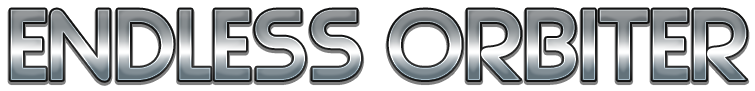
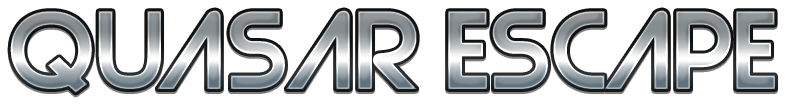
New Title

diff --git a/src/scenes/Menu.js b/src/scenes/Menu.js
@@ -55,7 +55,6 @@ class Menu extends Phaser.Scene{
         this.menuBackgroundStars = this.add.tileSprite(0, 0, game.config.width, game.config.height, "menuBGStars").setOrigin(0,0).setScrollFactor(0);
         this.bgPlanet = this.add.sprite(screenCenterX, screenCenterY, 'bgPlanet').setScale(1.4);
 
-
         //Create a particle emitter to shoot flames out of the mouse
         this.mouseFlameEmitter = this.add.particles('cursorParticles').createEmitter({
             x: -3000,
@@ -70,7 +69,8 @@ class Menu extends Phaser.Scene{
         });
 
         //Initialize Title
-        this.title = this.add.sprite(screenCenterX, screenCenterY - 420, 'title').setScale(200);
+        this.title = this.add.sprite(screenCenterX, screenCenterY - 425, 'title').setScale(200);
+        this.title.alpha = 0;
 
         //Initialize Particles and Emitter
         this.rocketParticles = this.add.particles('menuBGStars').setScale(1);
@@ -113,7 +113,7 @@ class Menu extends Phaser.Scene{
 
         //Will Launch the Menu up like a rocket
         if(this.launchMe == true){
-            this.launchMenu(this.blackScreen, this.title, this.launchBtn, this.creditsBtn, this.settingsBtn, this, this.rocketEmitter);
+            this.launchMenu(this.blackScreen, this.title, this.launchBtn, this.creditsBtn, this.settingsBtn, this, this.rocketEmitter, this.bgPlanet);
         }
     }
 
@@ -166,6 +166,10 @@ class Menu extends Phaser.Scene{
     }
 
     pulseTitle(){
+        if(this.title.scale <= 102.5) {
+            this.title.alpha += 0.04;
+        }
+
         if(this.title.scale > 2.5 && this.stopped == false){
             this.title.scale -= 3;
         }
@@ -189,13 +193,14 @@ class Menu extends Phaser.Scene{
         }
     }
 
-    launchMenu(blackScreen, title, launchButton, creditsButton, settingsButton, menuScene, emitter) {
+    launchMenu(blackScreen, title, launchButton, creditsButton, settingsButton, menuScene, emitter, planet) {
         //Moves elements up
         blackScreen.y -= 20;
         title.y -= 20;
         launchButton.y -= 20;
         creditsButton.y -= 20;
         settingsButton.y -= 20;
+        planet.y -= 20;
 
         //Get rid of the emitter to make it look more clean
         emitter.setAlpha(0);
